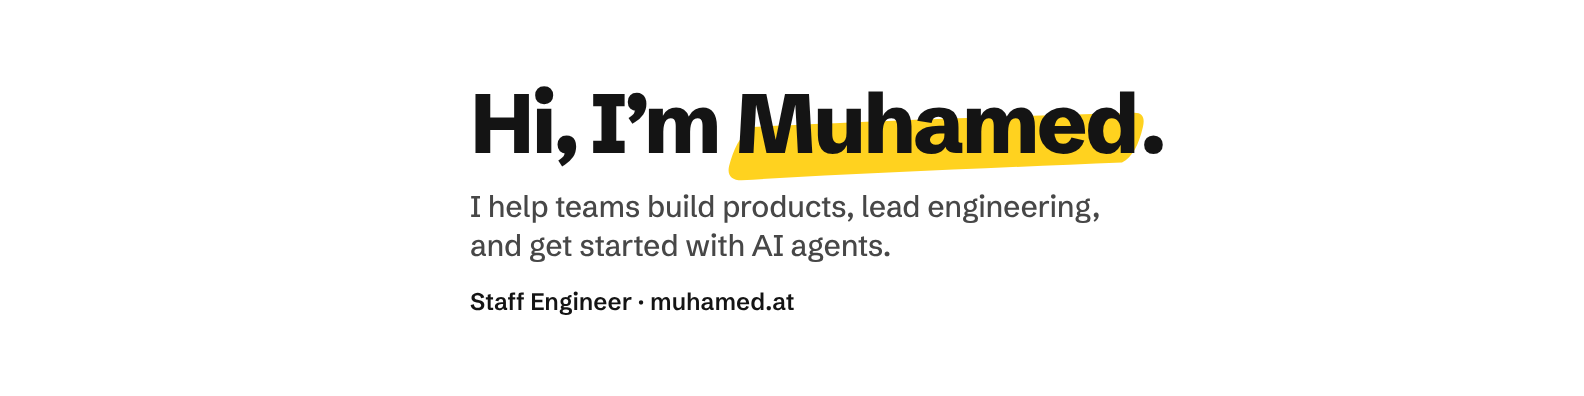
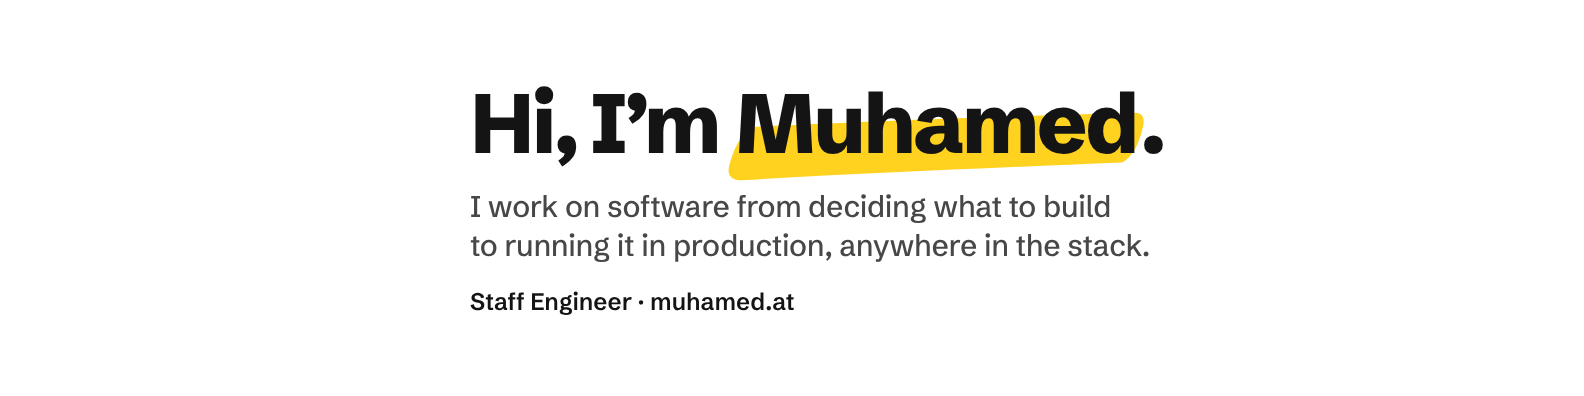
home: bring the owner's paragraph back under the greeting
The owner found the greeting a step in the right direction but missed
the earlier lead. On review, the lead written with the greeting listed
three services any consultant could list and lost what was specific in
his paragraph. From three mockups he chose his paragraph alone, opening
without the ten years: "I work on software from deciding what to build
to running it in production, anywhere in the stack. Lately I also work
one layer up, with agents writing the code, and build open-source tools
that keep that reliable." How he helps stays with the link under it and
the services section.

The share card and the LinkedIn and X headers carry the greeting over
the lead's first sentence; the three images are re-rendered and their
alt texts and PRODUCT.md follow.

Follow-up to the twenty-eighth change of
wiki/muhamed.github.io/adrs/professional-homepage-with-brain-and-writing.md
and the fifth change of
wiki/muhamed.github.io/adrs/amber-portrait-and-brand-kit.md.

Claude-Session: https://claude.ai/code/session_01XscJoG4SmD7LMe8LdYaRQg

Changed region(s): [[0.2784, 0.4848, 0.7424, 0.6667]]

diff --git a/.github/scripts/render-social-images.js b/.github/scripts/render-social-images.js
@@ -81,10 +81,10 @@ function servicePost(s, w, h) {
 }
 
 // The site's greeting (files/_data/home.yml, hero.title) and, under it, the
-// hero's lead as one sentence: how I help. Update both here when they change.
+// first sentence of the hero's lead. Update both here when they change.
 // Its line breaks are set by hand, for the card and for the headers.
-const HELP_CARD = 'I help teams build products,<br>lead engineering, and get started<br>with AI agents.';
-const HELP_HEADER = 'I help teams build products, lead engineering,<br>and get started with AI agents.';
+const LEAD_CARD = 'I work on software from deciding<br>what to build to running it in production,<br>anywhere in the stack.';
+const LEAD_HEADER = 'I work on software from deciding what to build<br>to running it in production, anywhere in the stack.';
 
 function share(w, h) {
   return `<div class="stage" style="--w:${w}px;--h:${h}px;display:grid;grid-template-columns:1fr 400px;">
@@ -92,7 +92,7 @@ function share(w, h) {
       <div class="rule" style="padding-top:18px"><span class="wordmark" style="font-size:26px">Muhamed Isabegovic</span></div>
       <div style="align-self:center">
         <h1 style="font-size:80px;white-space:nowrap">Hi, I’m <mark>Muhamed</mark>.</h1>
-        <p class="muted" style="font-size:30px;line-height:1.35;margin-top:26px">${HELP_CARD}</p>
+        <p class="muted" style="font-size:30px;line-height:1.35;margin-top:26px">${LEAD_CARD}</p>
       </div>
       <div class="muted" style="font-size:22px;font-weight:500">Staff Engineer · Vienna · <b style="color:var(--ink)">muhamed.at</b></div>
     </div>
@@ -134,13 +134,13 @@ function header(w, h, safeLeft) {
   const u = w / 1584;
   // White, like the site, with its hand-drawn highlighter (owner, 2026-10-29;
   // was dark, and amber before that, which almost matched the photo).
-  // Its lines are the site's greeting and how I help, so visitors from
+  // Its lines are the site's greeting and the lead's first sentence, so visitors from
   // LinkedIn or X read the same words first on the site (owner, 2026-11-21;
   // was "Ten years of taking software from idea to production.").
   return `<div class="stage" style="--w:${w}px;--h:${h}px;background:var(--paper);color:var(--ink);display:flex;align-items:center;padding:0 ${64 * u}px 0 ${safeLeft}px">
     <div>
       <h1 style="font-size:${84 * u}px;line-height:1.04;white-space:nowrap">Hi, I’m <mark>Muhamed</mark>.</h1>
-      <p class="muted" style="margin-top:${20 * u}px;font-size:${30 * u}px;line-height:1.3;font-weight:500;letter-spacing:-.01em">${HELP_HEADER}</p>
+      <p class="muted" style="margin-top:${20 * u}px;font-size:${30 * u}px;line-height:1.3;font-weight:500;letter-spacing:-.01em">${LEAD_HEADER}</p>
       <p style="margin-top:${22 * u}px;font-size:${24 * u}px;font-weight:600">Staff Engineer · muhamed.at</p>
     </div>
   </div>`;

diff --git a/files/brand.html b/files/brand.html
@@ -45,7 +45,7 @@ description: Photos, banners, colours, typeface and bios of Muhamed Isabegovic, 
     <div class="brand-banners">
       {% for bn in b.banners %}
       <figure class="brand-banner">
-        <img src="{{ site.baseurl }}/{{ bn.file }}" alt="{{ bn.name }}: Hi, I’m Muhamed. I help teams build products, lead engineering, and get started with AI agents. On white" loading="lazy">
+        <img src="{{ site.baseurl }}/{{ bn.file }}" alt="{{ bn.name }}: Hi, I’m Muhamed. I work on software from deciding what to build to running it in production, anywhere in the stack. On white" loading="lazy">
         <figcaption>
           <strong>{{ bn.name }}</strong>
           <span>{{ bn.note }}</span>

diff --git a/files/_includes/meta.html b/files/_includes/meta.html
@@ -11,5 +11,5 @@
 {% if page.image == "/images/social/share.png" %}
 <meta property="og:image:width" content="1200"/>
 <meta property="og:image:height" content="630"/>
-<meta property="og:image:alt" content="Muhamed Isabegovic, Staff Engineer, Vienna: Hi, I’m Muhamed. I help teams build products, lead engineering, and get started with AI agents."/>
+<meta property="og:image:alt" content="Muhamed Isabegovic, Staff Engineer, Vienna: Hi, I’m Muhamed. I work on software from deciding what to build to running it in production, anywhere in the stack."/>
 {% endif %}

diff --git a/wiki/muhamed.github.io/adrs/professional-homepage-with-brain-and-writing.md b/wiki/muhamed.github.io/adrs/professional-homepage-with-brain-and-writing.md
@@ -563,7 +563,19 @@ banners' alt text on `/brand/` say the same (source:
 files/_includes/meta.html, files/brand.html). "Ten years" leaves the first
 screen; it stays in About's Work section, the Work page's intro and the
 stack's intro. The caption under the portrait, the buttons and the line under
-them are unchanged.
+them are unchanged. On a second look the same day the owner found the result
+"a step in the right direction" but missed the earlier lead, so the lead is
+his own paragraph again, with a subject now that it follows a greeting and
+not the ten-years headline: "I work on software from deciding what to build
+to running it in production, anywhere in the stack. Lately I also work one
+layer up, with agents writing the code, and build open-source tools that keep
+that reliable." (was "From deciding what to build ..."). The lead no longer
+names the role, the city or the three kinds of help: the caption says Staff
+Engineer, the line under the buttons says Vienna, and how he helps is the
+"See how I can help" link and the services section. So the twenty-fourth
+change's point stands again: no lead spoken to the visitor. The share card
+and the headers carry the greeting over the lead's first sentence, and the
+alt texts follow.
 
 ## Approval
 
@@ -680,7 +692,16 @@ preference on which help to lead with, and "Everything" for how far the line
 travels (hero, share card and both headers). From previews of the built page
 and the three images he chose the lead "Spoken to the visitor" and "About me"
 for the About page's heading. The wording of the lead and of the images' one
-line is the agent's draft, for the owner to adjust.
+line is the agent's draft, for the owner to adjust. Later in the same
+session: "this was just a step in the right direction, I still thing we need
+to improve", and of the earlier lead, "I liked this also... review and find
+ways to improve". The agent's review: the new lead listed three services any
+consultant could list and had lost what was specific in his paragraph. From
+three mockups of the built hero (his paragraph alone; with one sentence of
+help, "If that’s what your team needs, I can help."; with a row of links to
+the four services) he chose "A: paragraph only", and for its opening
+"Without the ten years" over "For ten years I’ve worked on software ..." and
+"I’m a Staff Engineer. I work on software ...".
 
 ## Related
 

diff --git a/log/log.md b/log/log.md
@@ -347,3 +347,5 @@
    by: agent
 - site, brand: the homepage ADR's twenty-eighth change, on the owner's ask ("so many people use it since AI suggests it... Let's keep it simple and personal, who I am and how I could help"): the hero headline is "Hi, I’m Muhamed." (was "Ten years of taking software from idea to production."), with "Muhamed" on the highlighter, and the lead is "I’m a Staff Engineer in Vienna. If your team needs someone to build a product, lead its engineering, or get started with AI agents, I can help.", each the owner's pick from options. The About page's heading, which was the same greeting, becomes "About me". The share card and the LinkedIn and X headers (the amber portrait ADR's fifth change) carry the greeting over "I help teams build products, lead engineering, and get started with AI agents."; the three images are re-rendered and their alt texts updated. PRODUCT.md's positioning says the same. Built locally and checked in Chromium at 1440, 820 and 390 px; the headers are not yet uploaded to the profiles.
    by: agent
+- site, brand: the twenty-eighth change's follow-up, on the owner's word ("a step in the right direction... I liked this also... review and find ways to improve"): the hero's lead is his own paragraph again, with a subject now that it follows the greeting: "I work on software from deciding what to build to running it in production, anywhere in the stack. Lately I also work one layer up, with agents writing the code, and build open-source tools that keep that reliable." His pick from three mockups (the paragraph alone, over one with a sentence of help and one with links to the services) and, for the opening, without the ten years. The lead written earlier that day, which listed three services, is gone. The share card and the LinkedIn and X headers carry the greeting over the lead's first sentence; images re-rendered, alt texts and PRODUCT.md updated.
+   by: agent

diff --git a/PRODUCT.md b/PRODUCT.md
@@ -42,12 +42,15 @@ believing it from evidence they could check, and knowing how to reach him.
 from idea to production", a line he liked but felt many people now use
 because AI suggests it): simple and personal, who he is and how he could
 help, with "Muhamed" on the hand-drawn highlighter the site and every
-generated image use. The hero's lead says who he is and, spoken to the
-visitor, how he helps: "I'm a Staff Engineer in Vienna. If your team needs
-someone to build a product, lead its engineering, or get started with AI
-agents, I can help." The share card and the white LinkedIn and X headers
-carry the greeting over one line, "I help teams build products, lead
-engineering, and get started with AI agents." Clients hire him to build and lead; AI is one of the
+generated image use. The hero's lead is his own paragraph, kept from the
+ten-years hero and given a subject: "I work on software from deciding what
+to build to running it in production, anywhere in the stack. Lately I also
+work one layer up, with agents writing the code, and build open-source tools
+that keep that reliable." How he helps is the link under it and the services
+section; a lead that listed three services read as something any consultant
+could say and was replaced the same day. The share card and the white
+LinkedIn and X headers carry the greeting over the lead's first sentence.
+Clients hire him to build and lead; AI is one of the
 things he builds, not the pitch. His edge is making companies AI-native, in how they
 build and in what they build, with open-source tools he builds and teaches.
 Title, one form everywhere (owner, 2026-10-29): Staff Engineer, the role

diff --git a/wiki/muhamed.github.io/adrs/amber-portrait-and-brand-kit.md b/wiki/muhamed.github.io/adrs/amber-portrait-and-brand-kit.md
@@ -138,7 +138,11 @@ Engineer · muhamed.at" (source: .github/scripts/render-social-images.js).
 They stay white, in the same safe area right of the profile photo. The
 banners' alt text on `/brand/` says the new words (source: files/brand.html).
 The owner uploads the new headers to both profiles himself; until then the
-profiles show the ten-years line.
+profiles show the ten-years line. On a second look the same day the hero's
+lead became the owner's own paragraph again (homepage ADR, twenty-eighth
+change), so the sentence under the greeting is its first: "I work on
+software from deciding what to build to running it in production, anywhere
+in the stack."
 
 ## Related
 

diff --git a/wiki/muhamed.github.io/records/amber-portrait-and-brand-kit.md b/wiki/muhamed.github.io/records/amber-portrait-and-brand-kit.md
@@ -80,6 +80,11 @@ PDF are byte-identical to the built ones.
   .github/scripts/render-social-images.js). Both rendered without overflow
   at 1584 × 396 and 1500 × 500; the share card was re-rendered with them.
   Not yet uploaded to the profiles.
+- Later on 2026-11-21: the sentence under the greeting, on the headers and
+  the share card, is the first of the hero's lead, "I work on software from
+  deciding what to build to running it in production, anywhere in the
+  stack." (source: .github/scripts/render-social-images.js). All three
+  rendered without overflow.
 
 ## Related
 
